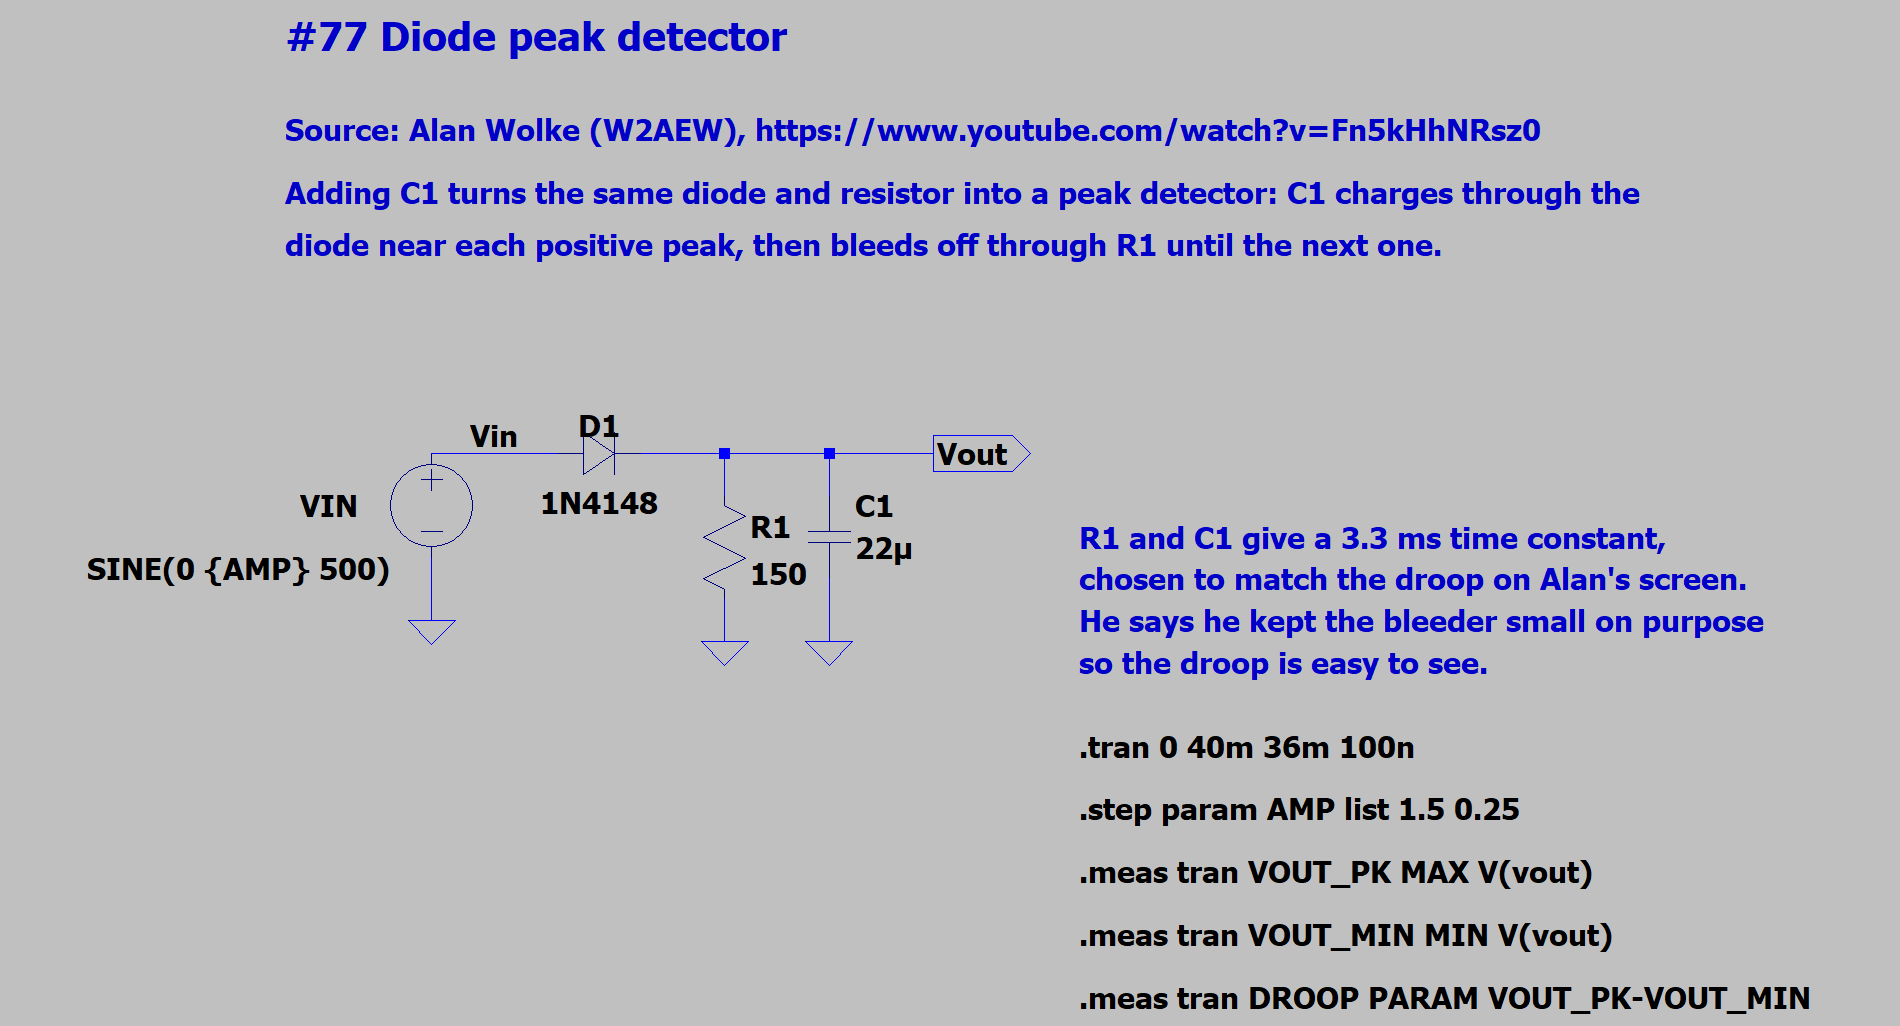
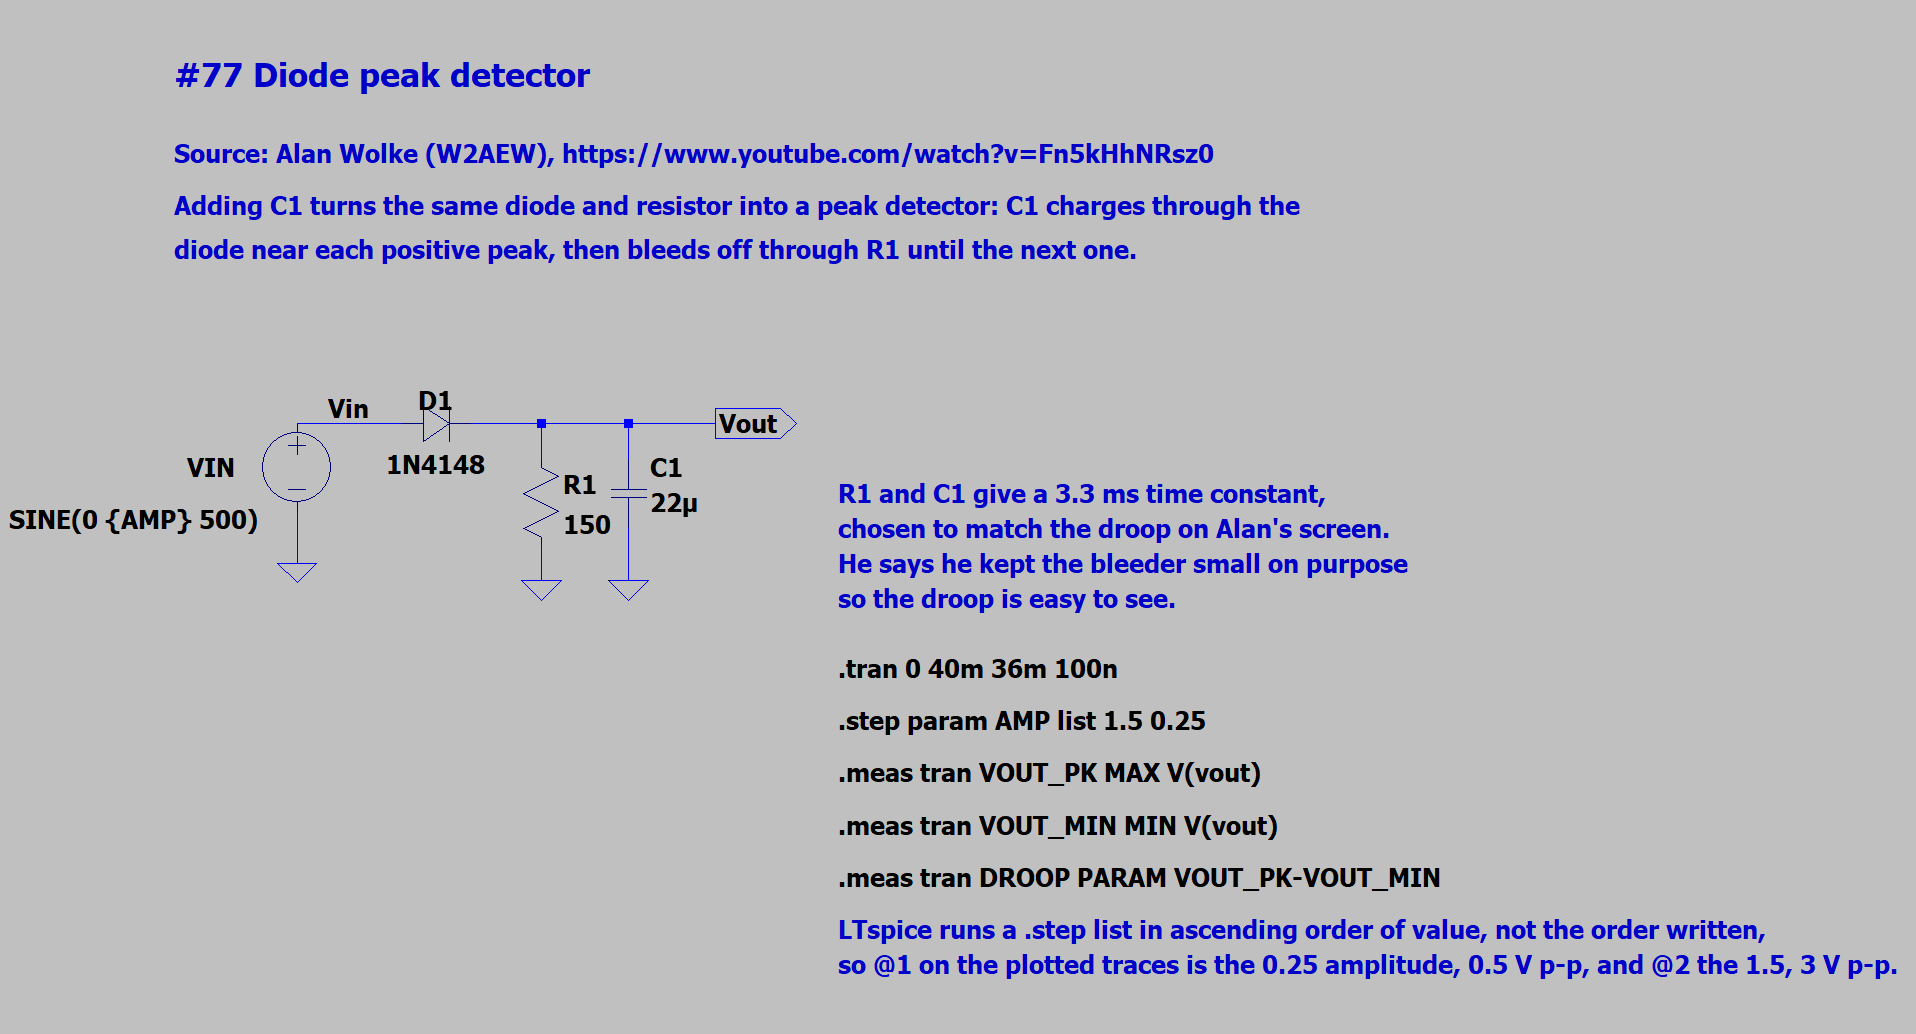
Warn on the drawing where a .step list is written out of order
LTspice reorders a .step list into ascending order of value before running it,
so where a list is written to follow the order Alan demonstrates, the @n
suffixes on the plotted traces come out reversed. The three schematics that do
this now say so in a comment beside the directive, rather than leaving a reader
to find it in the log, and video 077's notes explain it as video 412's already
do.

Leaving the lists in Alan's order keeps the schematic matching the video, which
is the one thing that order can usefully carry.

diff --git a/077 - Op Amp Peak Detector Tutorial, with peak detector basics/CIRCUIT_NOTES.md b/077 - Op Amp Peak Detector Tutorial, with peak detector basics/CIRCUIT_NOTES.md
@@ -100,6 +100,6 @@ Against the same 500 Hz source, measured at the held output:
 
 Open a schematic, press **Run**, and if the waveform window opens autoscaled press **Ctrl+Space** (Plot Settings > Reload Plot Settings) to load the saved `.plt`.
 
-Each circuit steps the source amplitude, so the traces are written with the `@n` step selector: `@1` is the small input and `@2` the 3 V p-p one. The two panes use different vertical scales, because the small-signal case would be invisible at the scale the large one needs.
+Each circuit steps the source amplitude, so the traces are written with the `@n` step selector: `@1` is the small input and `@2` the 3 V p-p one. Circuits 02 and 03 write that list as `1.5 0.25`, following the order Alan demonstrates, but **LTspice reorders a `.step` list into ascending order of value before running it**, so the run order is the reverse of the written one and the schematics say so beside the directive. The `.log` is where it is visible, as a `.step` line per run ahead of that run's results. The two panes use different vertical scales, because the small-signal case would be invisible at the scale the large one needs.
 
 The two circuits with a capacitor run for 40 ms and save only the last 4 ms. The hold network needs several time constants to settle before the pattern repeats cleanly.
